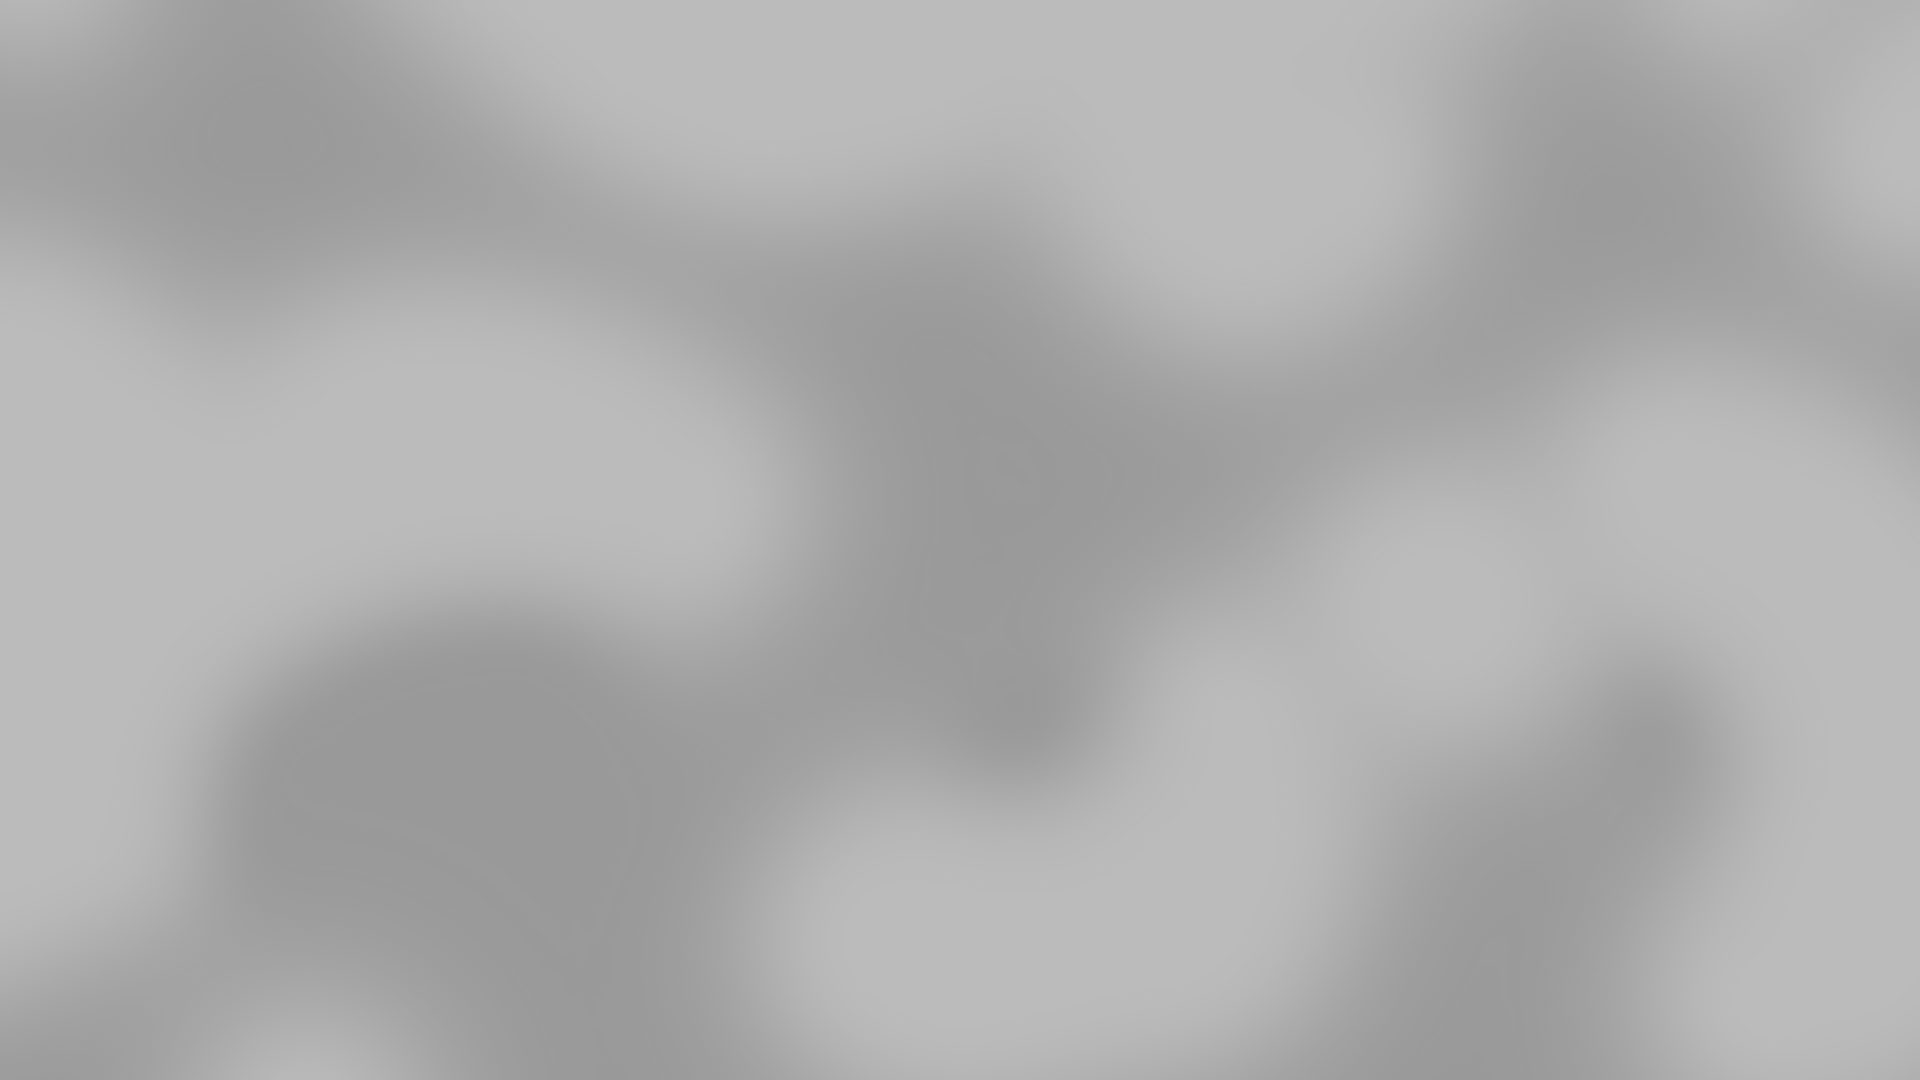
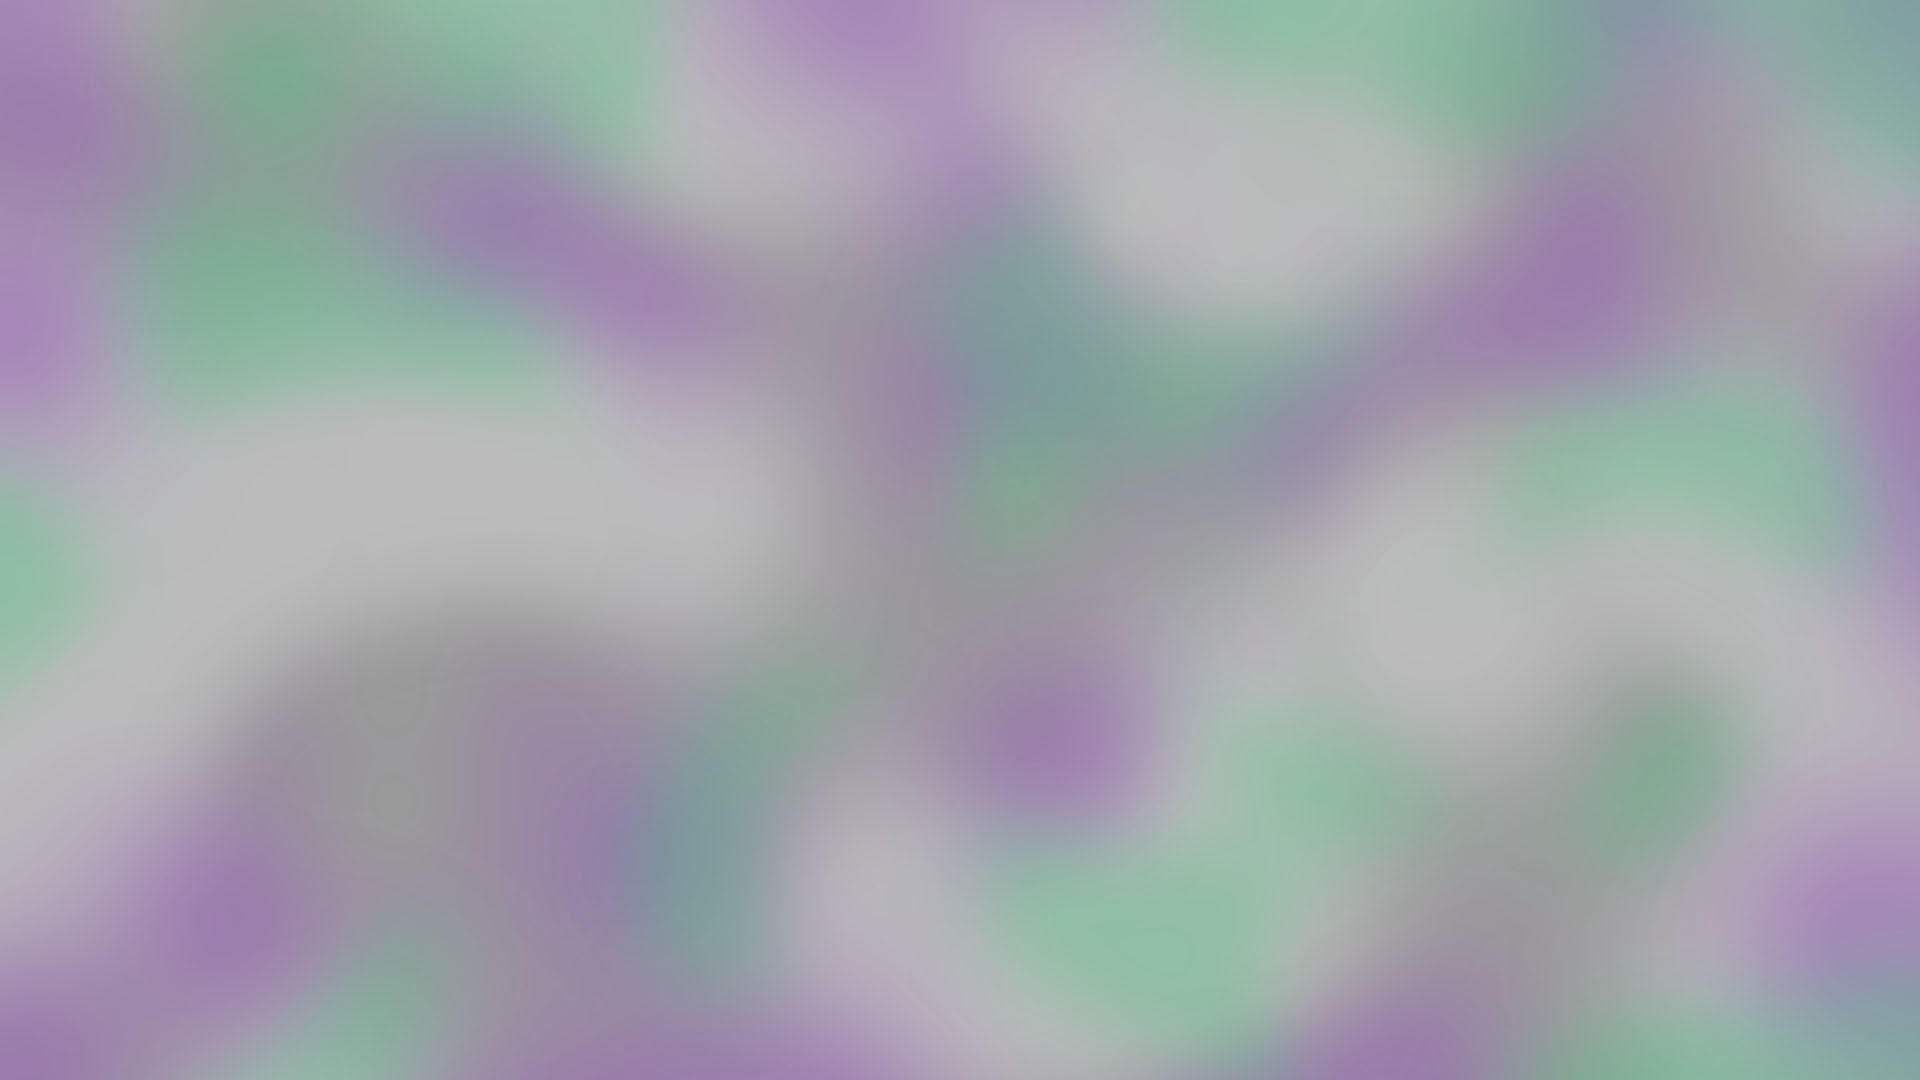
New backgrounds

diff --git a/my-games.html b/my-games.html
@@ -5,7 +5,7 @@
 		<link href="styles/styles.css" rel="stylesheet" type="text/css"/>
 	</head>
 	
-	<body>
+	<body class="bg2">
 		<header>
 			<h1>My Website</h1>
 			<nav>

diff --git a/styles/styles.css b/styles/styles.css
@@ -81,6 +81,10 @@ li a {
 	text-decoration: none;
 }
 
+.bg2 {
+	background-image: url("../background-games.jpg");
+}
+
 .division {
 	margin-top: 60px;
 }
